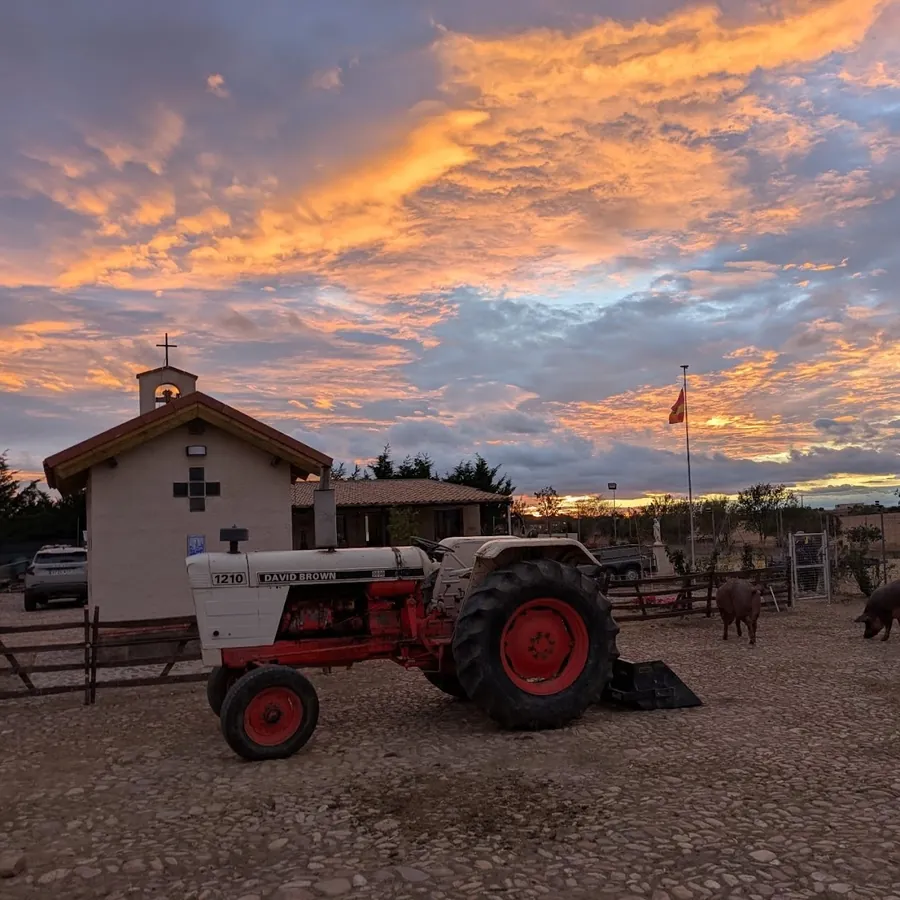
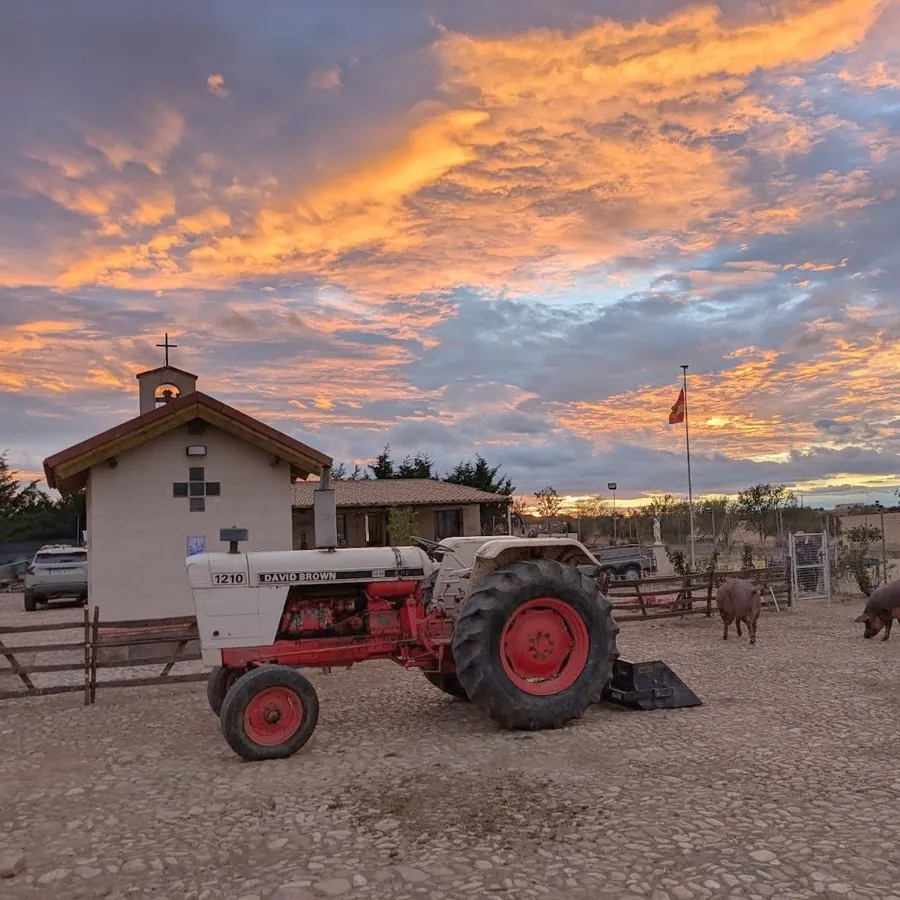
Foto del tractor: más luz en la mitad inferior
Claude-Session: https://claude.ai/code/session_01CUYjSQBrTt6S214k245qsV

diff --git a/en/clm/index.html b/en/clm/index.html
@@ -189,7 +189,7 @@ h2{font-family:var(--f-display);font-weight:500;font-size:clamp(1.95rem,4vw,2.7r
       <p class="intro-pilares">When we came across the movement, we recognised ourselves in it. Its four pillars match what we were already seeking on the farm.</p>
       <div class="pilares">
         <article class="pilar p1">
-          <img class="redonda" src="../../fotos/tractor-480.webp" width="480" height="480" loading="lazy" decoding="async" alt="">
+          <img class="redonda" src="../../fotos/tractor-480.webp?v=2" width="480" height="480" loading="lazy" decoding="async" alt="">
           <span class="lat">Resettlement</span>
           <h3>Back to the land</h3>
           <p>The movement supports families who want to live in the countryside, on land of their own. We have already taken that step: the farm was born from the search for a life closer to reality, set by the sun, the seasons and what the land asks of us.</p>

diff --git a/clm/index.html b/clm/index.html
@@ -189,7 +189,7 @@ h2{font-family:var(--f-display);font-weight:500;font-size:clamp(1.95rem,4vw,2.7r
       <p class="intro-pilares">Cuando conocimos el movimiento, nos reconocimos en él. Sus cuatro pilares coinciden con lo que ya buscábamos en la granja.</p>
       <div class="pilares">
         <article class="pilar p1">
-          <img class="redonda" src="../fotos/tractor-480.webp" width="480" height="480" loading="lazy" decoding="async" alt="">
+          <img class="redonda" src="../fotos/tractor-480.webp?v=2" width="480" height="480" loading="lazy" decoding="async" alt="">
           <span class="lat">Reasentamiento</span>
           <h3>Volver al campo</h3>
           <p>El movimiento acompaña a las familias que quieren vivir en el campo, en tierra propia. Nosotros ya dimos ese paso: la granja nació de la búsqueda de una vida más pegada a la realidad, al ritmo del sol, de las estaciones y de lo que pide la tierra.</p>
